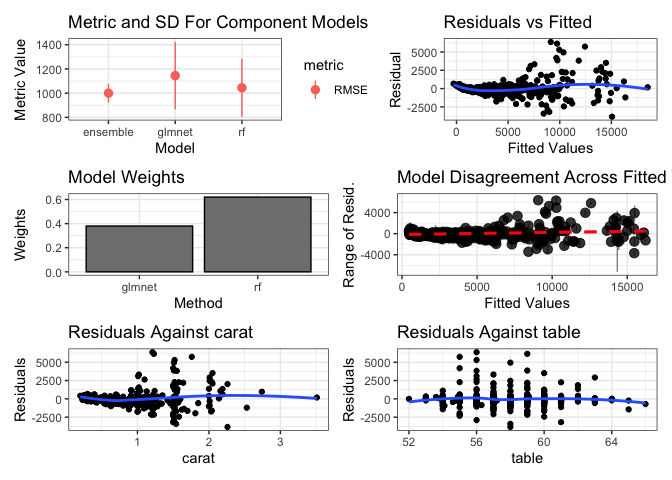
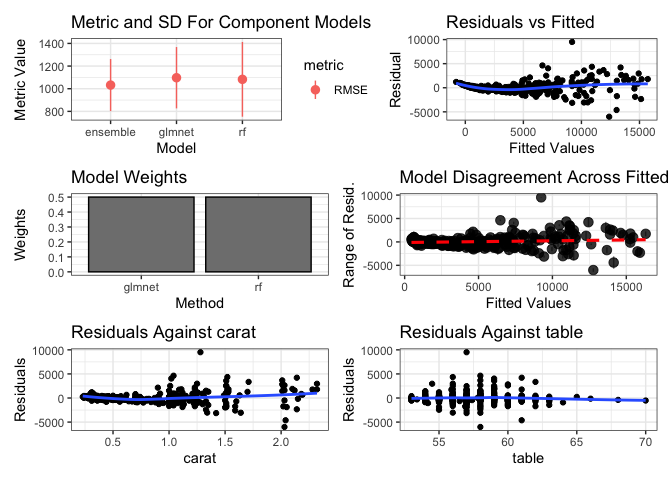
fix failing test

diff --git a/README.md b/README.md
@@ -48,8 +48,8 @@ print(summary(models))
 #> Model accuracy:
 #>    model_name metric    value       sd
 #>        <char> <char>    <num>    <num>
-#> 1:         rf   RMSE 1044.363 239.2775
-#> 2:     glmnet   RMSE 1144.750 278.2744
+#> 1:         rf   RMSE 1082.884 330.0036
+#> 2:     glmnet   RMSE 1097.115 270.7970
 ```
 
 Then, use caretEnsemble to make a greedy ensemble of these models
@@ -68,17 +68,17 @@ print(greedy_stack)
 #> Resampling results:
 #> 
 #>   RMSE      Rsquared   MAE     
-#>   1000.307  0.9372951  543.9684
+#>   1032.199  0.9255646  603.9255
 #> 
 #> Tuning parameter 'max_iter' was held constant at a value of 100
 #> 
 #> Final model:
 #> Greedy MSE
-#> RMSE:  1001.834 
+#> RMSE:  1045.609 
 #> Weights:
 #>        [,1]
-#> rf     0.62
-#> glmnet 0.38
+#> rf      0.5
+#> glmnet  0.5
 ```
 
 You can also use caretStack to make a non-linear ensemble
@@ -98,7 +98,7 @@ print(rf_stack)
 #> Resampling results:
 #> 
 #>   RMSE      Rsquared   MAE     
-#>   924.4763  0.9476619  482.2729
+#>   1120.904  0.9126444  547.3487
 #> 
 #> Tuning parameter 'mtry' was held constant at a value of 2
 #> 
@@ -110,8 +110,8 @@ print(rf_stack)
 #>                      Number of trees: 500
 #> No. of variables tried at each split: 2
 #> 
-#>           Mean of squared residuals: 910334.2
-#>                     % Var explained: 94.28
+#>           Mean of squared residuals: 1075337
+#>                     % Var explained: 92.54
 ```
 
 Use autoplot from ggplot2 to plot ensemble diagnostics:
